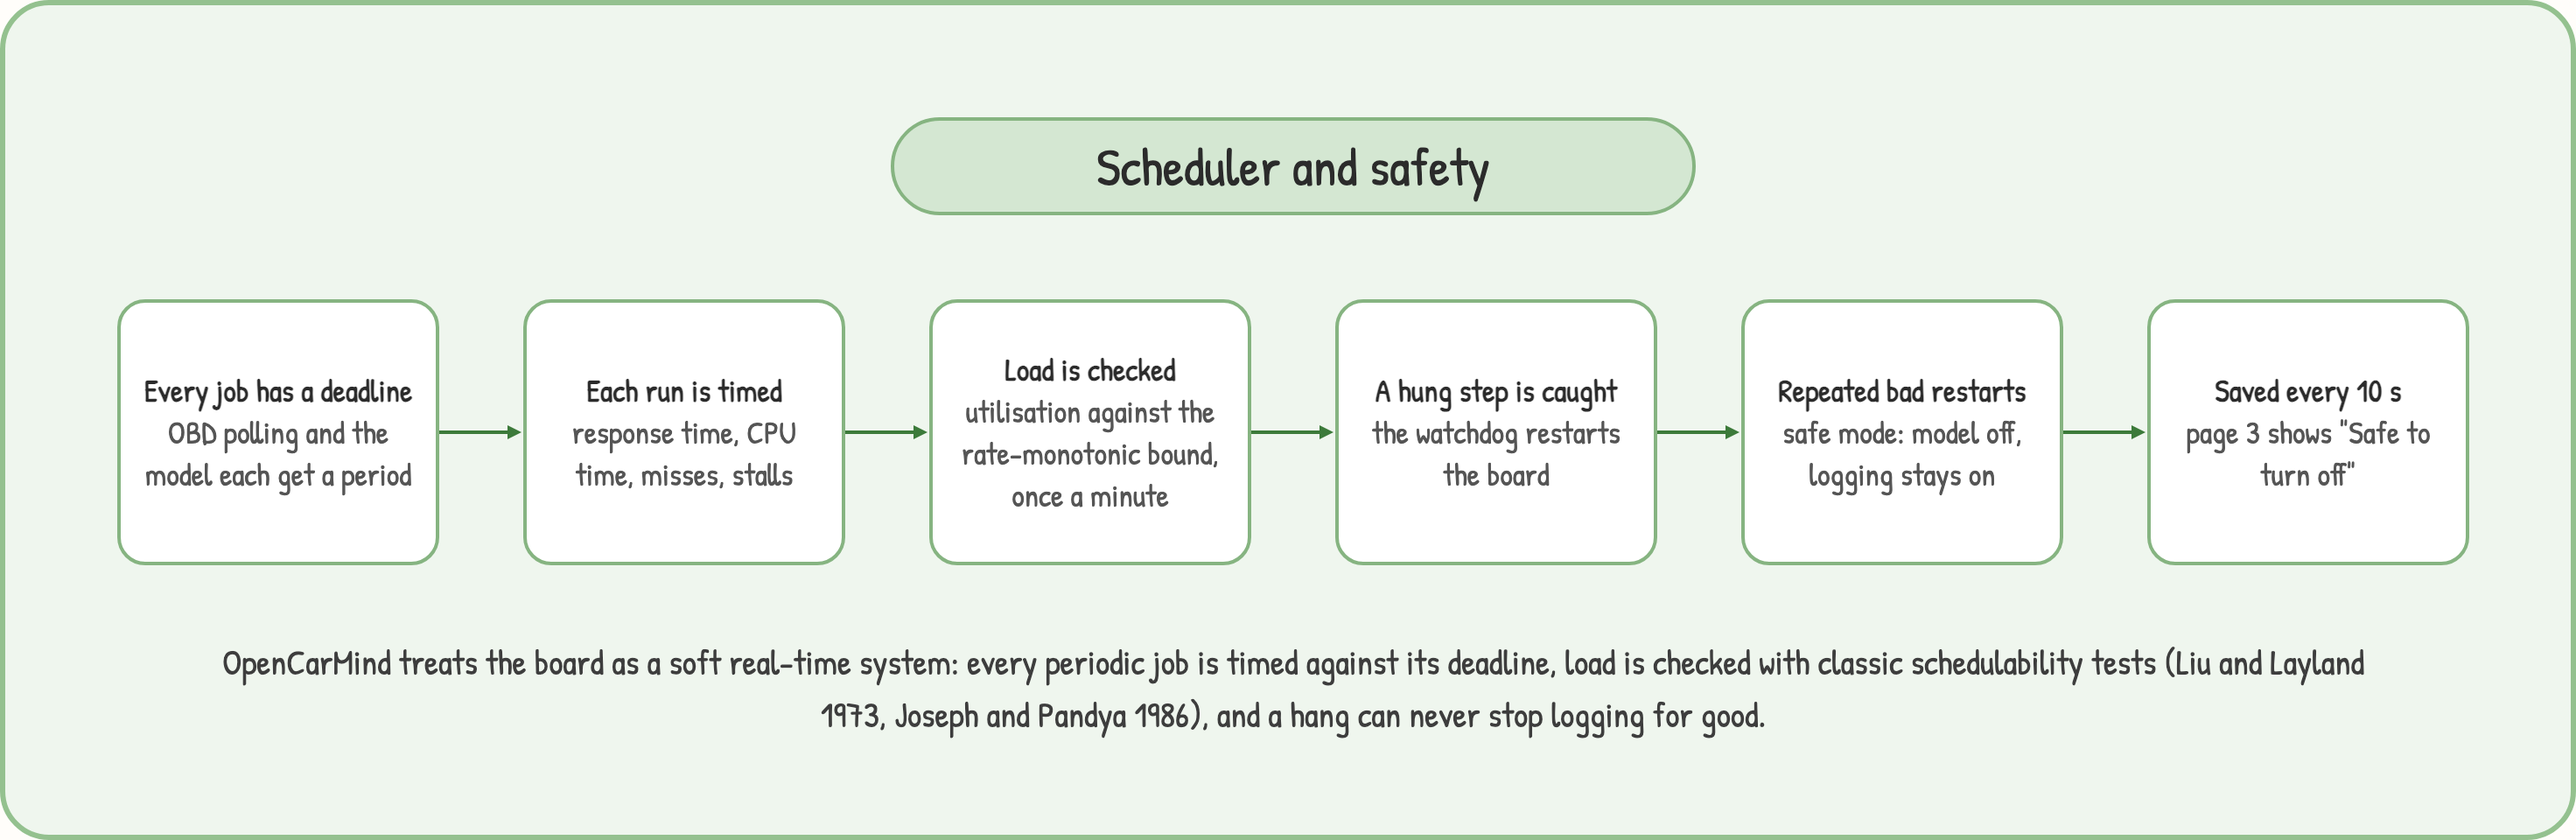
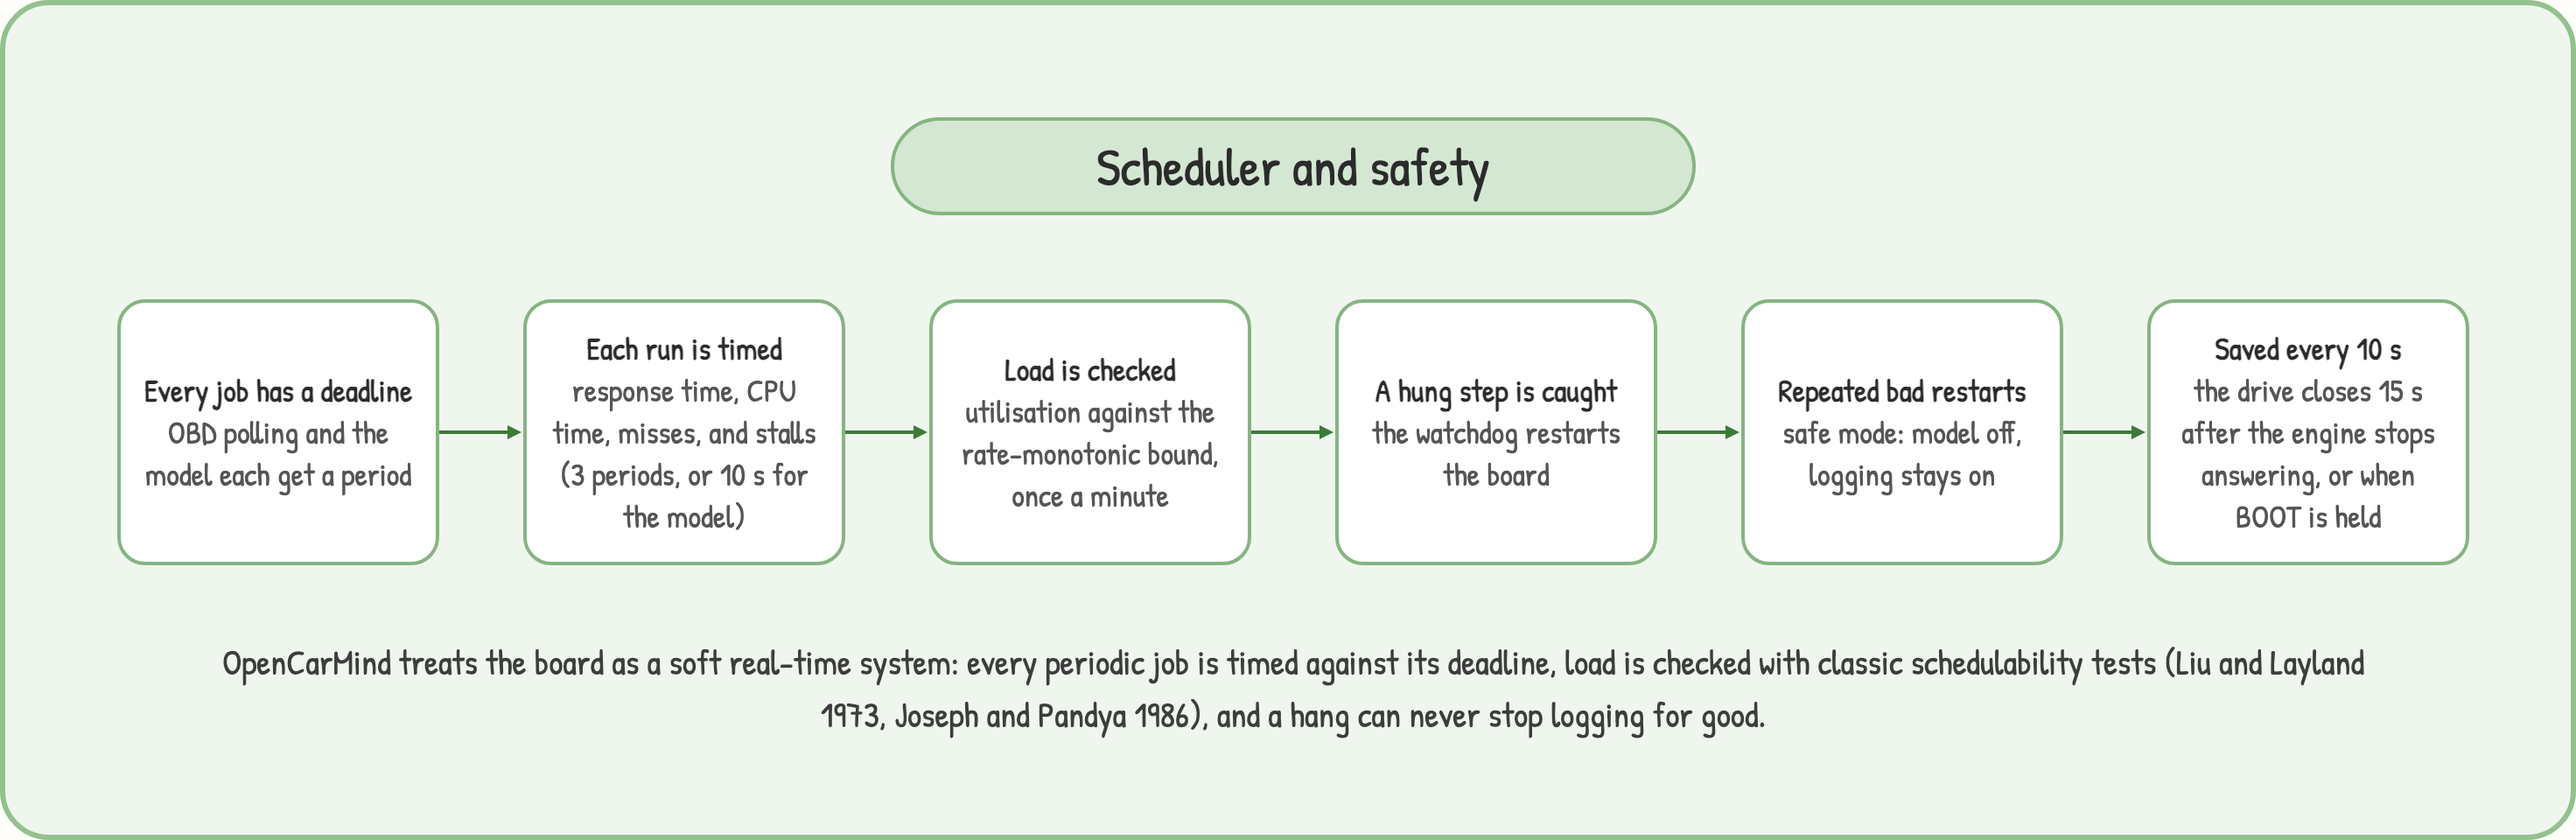
Workflow images match the flashed firmware: drive ends on ECU silence or BOOT hold, stall rule, fuel economy, units from Wi-Fi, measured 6-7 ms model runs
Claude-Session: https://claude.ai/code/session_01XTAvvSkN4SswRoW4SU59VW

Changed region(s): [[0.8438, 0.4062, 0.9375, 0.625], [0.2188, 0.4062, 0.3125, 0.625]]

diff --git a/docs/images/src/scheduler.html b/docs/images/src/scheduler.html
@@ -10,11 +10,11 @@
 <svg width="47" height="8" viewBox="0 0 47 8" preserveAspectRatio="none" style="position: absolute; left: 1176px; top: 240px; width: 47px; height: 8px; overflow: visible; fill: none; stroke: #3c7a3a; stroke-width: 2; stroke-linecap: round; stroke-linejoin: round"><defs><marker id="dc-arrow-head-filled-5" orient="auto" markerWidth="5" markerHeight="5" refX="2" refY="2" overflow="visible"><path d="M0 0 L4 2 L0 4 Z" fill="#3c7a3a" stroke="none" style="stroke: none; fill: #3c7a3a; fill: context-stroke"/></marker></defs><path d="M 0 4 L 43 4" marker-end="url(#dc-arrow-head-filled-5)"></path></svg>
 <div style="position: absolute; left: 506px; top: 64px; width: 460px; height: 56px; box-sizing: border-box; display: flex; align-items: center; justify-content: center; background: #d4e7d2; border: 2px solid #86b481; border-radius: 28px; font-size: 30px; line-height: 36px">Scheduler and safety</div>
 <div style="position: absolute; left: 64px; top: 168px; width: 184px; height: 152px; box-sizing: border-box; padding: 12px; display: flex; align-items: center; justify-content: center; text-align: center; background: #ffffff; border: 2px solid #86b481; border-radius: 16px; font-size: 18px; line-height: 24px"><span><b>Every job has a deadline</b><br><span style="color: #555555">OBD polling and the model each get a period</span></span></div>
-<div style="position: absolute; left: 296px; top: 168px; width: 184px; height: 152px; box-sizing: border-box; padding: 12px; display: flex; align-items: center; justify-content: center; text-align: center; background: #ffffff; border: 2px solid #86b481; border-radius: 16px; font-size: 18px; line-height: 24px"><span><b>Each run is timed</b><br><span style="color: #555555">response time, CPU time, misses, stalls</span></span></div>
+<div style="position: absolute; left: 296px; top: 168px; width: 184px; height: 152px; box-sizing: border-box; padding: 12px; display: flex; align-items: center; justify-content: center; text-align: center; background: #ffffff; border: 2px solid #86b481; border-radius: 16px; font-size: 18px; line-height: 24px"><span><b>Each run is timed</b><br><span style="color: #555555">response time, CPU time, misses, and stalls (3 periods, or 10 s for the model)</span></span></div>
 <div style="position: absolute; left: 528px; top: 168px; width: 184px; height: 152px; box-sizing: border-box; padding: 12px; display: flex; align-items: center; justify-content: center; text-align: center; background: #ffffff; border: 2px solid #86b481; border-radius: 16px; font-size: 18px; line-height: 24px"><span><b>Load is checked</b><br><span style="color: #555555">utilisation against the rate-monotonic bound, once a minute</span></span></div>
 <div style="position: absolute; left: 760px; top: 168px; width: 184px; height: 152px; box-sizing: border-box; padding: 12px; display: flex; align-items: center; justify-content: center; text-align: center; background: #ffffff; border: 2px solid #86b481; border-radius: 16px; font-size: 18px; line-height: 24px"><span><b>A hung step is caught</b><br><span style="color: #555555">the watchdog restarts the board</span></span></div>
 <div style="position: absolute; left: 992px; top: 168px; width: 184px; height: 152px; box-sizing: border-box; padding: 12px; display: flex; align-items: center; justify-content: center; text-align: center; background: #ffffff; border: 2px solid #86b481; border-radius: 16px; font-size: 18px; line-height: 24px"><span><b>Repeated bad restarts</b><br><span style="color: #555555">safe mode: model off, logging stays on</span></span></div>
-<div style="position: absolute; left: 1224px; top: 168px; width: 184px; height: 152px; box-sizing: border-box; padding: 12px; display: flex; align-items: center; justify-content: center; text-align: center; background: #ffffff; border: 2px solid #86b481; border-radius: 16px; font-size: 18px; line-height: 24px"><span><b>Saved every 10 s</b><br><span style="color: #555555">page 3 shows "Safe to turn off"</span></span></div>
+<div style="position: absolute; left: 1224px; top: 168px; width: 184px; height: 152px; box-sizing: border-box; padding: 12px; display: flex; align-items: center; justify-content: center; text-align: center; background: #ffffff; border: 2px solid #86b481; border-radius: 16px; font-size: 18px; line-height: 24px"><span><b>Saved every 10 s</b><br><span style="color: #555555">the drive closes 15 s after the engine stops answering, or when BOOT is held</span></span></div>
 <div style="position: absolute; left: 112px; top: 360px; width: 1248px; text-align: center; font-size: 20px; line-height: 30px; color: #3d3d3d">OpenCarMind treats the board as a soft real-time system: every periodic job is timed against its deadline, load is checked with classic schedulability tests (Liu and Layland 1973, Joseph and Pandya 1986), and a hang can never stop logging for good.</div>
 </div>
 </body></html>

diff --git a/docs/images/src/tool.html b/docs/images/src/tool.html
@@ -11,10 +11,10 @@
 <div style="position: absolute; left: 506px; top: 64px; width: 460px; height: 56px; box-sizing: border-box; display: flex; align-items: center; justify-content: center; background: #d2ebe8; border: 2px solid #5fb3aa; border-radius: 28px; font-size: 30px; line-height: 36px">OpenCarMind, the tool</div>
 <div style="position: absolute; left: 64px; top: 168px; width: 184px; height: 152px; box-sizing: border-box; padding: 12px; display: flex; align-items: center; justify-content: center; text-align: center; background: #ffffff; border: 2px solid #5fb3aa; border-radius: 16px; font-size: 18px; line-height: 24px"><span><b>Car engine computer</b><br><span style="color: #555555">answers OBD-II requests</span></span></div>
 <div style="position: absolute; left: 296px; top: 168px; width: 184px; height: 152px; box-sizing: border-box; padding: 12px; display: flex; align-items: center; justify-content: center; text-align: center; background: #ffffff; border: 2px solid #5fb3aa; border-radius: 16px; font-size: 18px; line-height: 24px"><span><b>BLE OBD-II adapter</b><br><span style="color: #555555">ELM327-style, with a Bluetooth LE chip</span></span></div>
-<div style="position: absolute; left: 528px; top: 168px; width: 184px; height: 152px; box-sizing: border-box; padding: 12px; display: flex; align-items: center; justify-content: center; text-align: center; background: #ffffff; border: 2px solid #5fb3aa; border-radius: 16px; font-size: 18px; line-height: 24px"><span><b>ESP32-S3 board</b><br><span style="color: #555555">reads, scores and logs every row</span></span></div>
+<div style="position: absolute; left: 528px; top: 168px; width: 184px; height: 152px; box-sizing: border-box; padding: 12px; display: flex; align-items: center; justify-content: center; text-align: center; background: #ffffff; border: 2px solid #5fb3aa; border-radius: 16px; font-size: 18px; line-height: 24px"><span><b>ESP32-S3 board</b><br><span style="color: #555555">reads, scores and logs every row, and shows fuel economy</span></span></div>
 <div style="position: absolute; left: 760px; top: 168px; width: 184px; height: 152px; box-sizing: border-box; padding: 12px; display: flex; align-items: center; justify-content: center; text-align: center; background: #ffffff; border: 2px solid #5fb3aa; border-radius: 16px; font-size: 18px; line-height: 24px"><span><b>AI model on the chip</b><br><span style="color: #555555">manoeuvre class and 3 estimates</span></span></div>
-<div style="position: absolute; left: 992px; top: 168px; width: 184px; height: 152px; box-sizing: border-box; padding: 12px; display: flex; align-items: center; justify-content: center; text-align: center; background: #ffffff; border: 2px solid #5fb3aa; border-radius: 16px; font-size: 18px; line-height: 24px"><span><b>Session files on the SD card</b><br><span style="color: #555555">saved every 10 s, "Safe to turn off"</span></span></div>
+<div style="position: absolute; left: 992px; top: 168px; width: 184px; height: 152px; box-sizing: border-box; padding: 12px; display: flex; align-items: center; justify-content: center; text-align: center; background: #ffffff; border: 2px solid #5fb3aa; border-radius: 16px; font-size: 18px; line-height: 24px"><span><b>Session files on the SD card</b><br><span style="color: #555555">saved every 10 s, closed when the engine stops</span></span></div>
 <div style="position: absolute; left: 1224px; top: 168px; width: 184px; height: 152px; box-sizing: border-box; padding: 12px; display: flex; align-items: center; justify-content: center; text-align: center; background: #ffffff; border: 2px solid #5fb3aa; border-radius: 16px; font-size: 18px; line-height: 24px"><span><b>Desktop app on your computer</b><br><span style="color: #555555">gets each drive over your Wi-Fi, or reads the card</span></span></div>
-<div style="position: absolute; left: 112px; top: 360px; width: 1248px; text-align: center; font-size: 20px; line-height: 30px; color: #3d3d3d">No account and no cloud. Every OBD row is logged, the model scores it on the chip, and the card is saved every 10 s, so you can pull the plug when the screen says "Safe to turn off". At home, a paired board sends the new data to the desktop app on your own computer.</div>
+<div style="position: absolute; left: 112px; top: 360px; width: 1248px; text-align: center; font-size: 20px; line-height: 30px; color: #3d3d3d">No account and no cloud. Every OBD row is logged and scored on the chip. The card is saved every 10 s and the drive closes 15 s after the engine stops answering, so you can pull the plug when the screen says "Safe to turn off". At home, a paired board sends the new data to the desktop app on your own computer.</div>
 </div>
 </body></html>

diff --git a/docs/images/src/sync.html b/docs/images/src/sync.html
@@ -11,7 +11,7 @@
 <div style="position: absolute; left: 506px; top: 64px; width: 460px; height: 56px; box-sizing: border-box; display: flex; align-items: center; justify-content: center; background: #dbe6fb; border: 2px solid #7aa2e8; border-radius: 28px; font-size: 30px; line-height: 36px">Wi-Fi link to the desktop app</div>
 <div style="position: absolute; left: 64px; top: 168px; width: 184px; height: 152px; box-sizing: border-box; padding: 12px; display: flex; align-items: center; justify-content: center; text-align: center; background: #ffffff; border: 2px solid #7aa2e8; border-radius: 16px; font-size: 18px; line-height: 24px"><span><b>Pair once, over USB</b><br><span style="color: #555555">type the code from the board's screen into the app</span></span></div>
 <div style="position: absolute; left: 296px; top: 168px; width: 184px; height: 152px; box-sizing: border-box; padding: 12px; display: flex; align-items: center; justify-content: center; text-align: center; background: #ffffff; border: 2px solid #7aa2e8; border-radius: 16px; font-size: 18px; line-height: 24px"><span><b>The board stores it</b><br><span style="color: #555555">keeps the app's certificate, token and Wi-Fi in flash</span></span></div>
-<div style="position: absolute; left: 528px; top: 168px; width: 184px; height: 152px; box-sizing: border-box; padding: 12px; display: flex; align-items: center; justify-content: center; text-align: center; background: #ffffff; border: 2px solid #7aa2e8; border-radius: 16px; font-size: 18px; line-height: 24px"><span><b>Parked near home</b><br><span style="color: #555555">joins your Wi-Fi only while the car link is down</span></span></div>
+<div style="position: absolute; left: 528px; top: 168px; width: 184px; height: 152px; box-sizing: border-box; padding: 12px; display: flex; align-items: center; justify-content: center; text-align: center; background: #ffffff; border: 2px solid #7aa2e8; border-radius: 16px; font-size: 18px; line-height: 24px"><span><b>Parked near home</b><br><span style="color: #555555">joins your Wi-Fi once the engine is off. The first join sets km or miles</span></span></div>
 <div style="position: absolute; left: 760px; top: 168px; width: 184px; height: 152px; box-sizing: border-box; padding: 12px; display: flex; align-items: center; justify-content: center; text-align: center; background: #ffffff; border: 2px solid #7aa2e8; border-radius: 16px; font-size: 18px; line-height: 24px"><span><b>TLS to your app</b><br><span style="color: #555555">trusts only the app's certificate and sends a token</span></span></div>
 <div style="position: absolute; left: 992px; top: 168px; width: 184px; height: 152px; box-sizing: border-box; padding: 12px; display: flex; align-items: center; justify-content: center; text-align: center; background: #ffffff; border: 2px solid #7aa2e8; border-radius: 16px; font-size: 18px; line-height: 24px"><span><b>Every 10 seconds</b><br><span style="color: #555555">asks what the app has, then appends the rest</span></span></div>
 <div style="position: absolute; left: 1224px; top: 168px; width: 184px; height: 152px; box-sizing: border-box; padding: 12px; display: flex; align-items: center; justify-content: center; text-align: center; background: #ffffff; border: 2px solid #7aa2e8; border-radius: 16px; font-size: 18px; line-height: 24px"><span><b>Desktop app</b><br><span style="color: #555555">keeps each board's drives and charts them</span></span></div>

diff --git a/docs/images/src/local.html b/docs/images/src/local.html
@@ -13,7 +13,7 @@
 <div style="position: absolute; left: 296px; top: 168px; width: 184px; height: 152px; box-sizing: border-box; padding: 12px; display: flex; align-items: center; justify-content: center; text-align: center; background: #ffffff; border: 2px solid #e0b25a; border-radius: 16px; font-size: 18px; line-height: 24px"><span><b>No cloud</b><br><span style="color: #555555">no telemetry, no subscription, no server of ours</span></span></div>
 <div style="position: absolute; left: 528px; top: 168px; width: 184px; height: 152px; box-sizing: border-box; padding: 12px; display: flex; align-items: center; justify-content: center; text-align: center; background: #ffffff; border: 2px solid #e0b25a; border-radius: 16px; font-size: 18px; line-height: 24px"><span><b>AI on the chip</b><br><span style="color: #555555">answers in the car with no internet</span></span></div>
 <div style="position: absolute; left: 760px; top: 168px; width: 184px; height: 152px; box-sizing: border-box; padding: 12px; display: flex; align-items: center; justify-content: center; text-align: center; background: #ffffff; border: 2px solid #e0b25a; border-radius: 16px; font-size: 18px; line-height: 24px"><span><b>Your SD card</b><br><span style="color: #555555">plain CSV, JSON and text files you own</span></span></div>
-<div style="position: absolute; left: 992px; top: 168px; width: 184px; height: 152px; box-sizing: border-box; padding: 12px; display: flex; align-items: center; justify-content: center; text-align: center; background: #ffffff; border: 2px solid #e0b25a; border-radius: 16px; font-size: 18px; line-height: 24px"><span><b>Wi-Fi is optional</b><br><span style="color: #555555">sets the clock and sends drives to your own computer</span></span></div>
+<div style="position: absolute; left: 992px; top: 168px; width: 184px; height: 152px; box-sizing: border-box; padding: 12px; display: flex; align-items: center; justify-content: center; text-align: center; background: #ffffff; border: 2px solid #e0b25a; border-radius: 16px; font-size: 18px; line-height: 24px"><span><b>Wi-Fi is optional</b><br><span style="color: #555555">sets the clock, picks km or miles, and sends drives to your computer</span></span></div>
 <div style="position: absolute; left: 1224px; top: 168px; width: 184px; height: 152px; box-sizing: border-box; padding: 12px; display: flex; align-items: center; justify-content: center; text-align: center; background: #ffffff; border: 2px solid #e0b25a; border-radius: 16px; font-size: 18px; line-height: 24px"><span><b>Desktop app and Dashy</b><br><span style="color: #555555">both run on your machine and read your drives</span></span></div>
 <div style="position: absolute; left: 112px; top: 360px; width: 1248px; text-align: center; font-size: 20px; line-height: 30px; color: #3d3d3d">OpenCarMind is open source and local-first. The model runs on the board, the data is kept on your card, and it only ever goes to a computer you paired yourself.</div>
 </div>

diff --git a/docs/images/src/inference.html b/docs/images/src/inference.html
@@ -15,6 +15,6 @@
 <div style="position: absolute; left: 760px; top: 168px; width: 184px; height: 152px; box-sizing: border-box; padding: 12px; display: flex; align-items: center; justify-content: center; text-align: center; background: #ffffff; border: 2px solid #5fb3aa; border-radius: 16px; font-size: 18px; line-height: 24px"><span><b>Model runs (ESP-DL)</b><br><span style="color: #555555">manoeuvre and 3 estimates</span></span></div>
 <div style="position: absolute; left: 992px; top: 168px; width: 184px; height: 152px; box-sizing: border-box; padding: 12px; display: flex; align-items: center; justify-content: center; text-align: center; background: #ffffff; border: 2px solid #5fb3aa; border-radius: 16px; font-size: 18px; line-height: 24px"><span><b>One line per row to the SD file</b><br><span style="color: #555555">results file, joined by time</span></span></div>
 <div style="position: absolute; left: 1224px; top: 168px; width: 184px; height: 152px; box-sizing: border-box; padding: 12px; display: flex; align-items: center; justify-content: center; text-align: center; background: #ffffff; border: 2px solid #5fb3aa; border-radius: 16px; font-size: 18px; line-height: 24px"><span><b>Result on the screen</b><br><span style="color: #555555">page 5: class and estimates</span></span></div>
-<div style="position: absolute; left: 112px; top: 360px; width: 1248px; text-align: center; font-size: 20px; line-height: 30px; color: #3d3d3d">When a row arrives, the board cuts the last 30 seconds into one-second bins ending at that moment and runs the model in its own task, so logging never waits. Every OBD row adds one line to the drive's results file. On the test car a run took about 9 ms on average.</div>
+<div style="position: absolute; left: 112px; top: 360px; width: 1248px; text-align: center; font-size: 20px; line-height: 30px; color: #3d3d3d">When a row arrives, the board cuts the last 30 seconds into one-second bins ending at that moment and runs the model in its own task, so logging never waits. Every OBD row adds one line to the drive's results file. On the test car's latest drives a run took 6 to 7 ms (median). When the car reports no fuel rate or airflow, the fuel estimate fills in the economy tile, in amber.</div>
 </div>
 </body></html>
